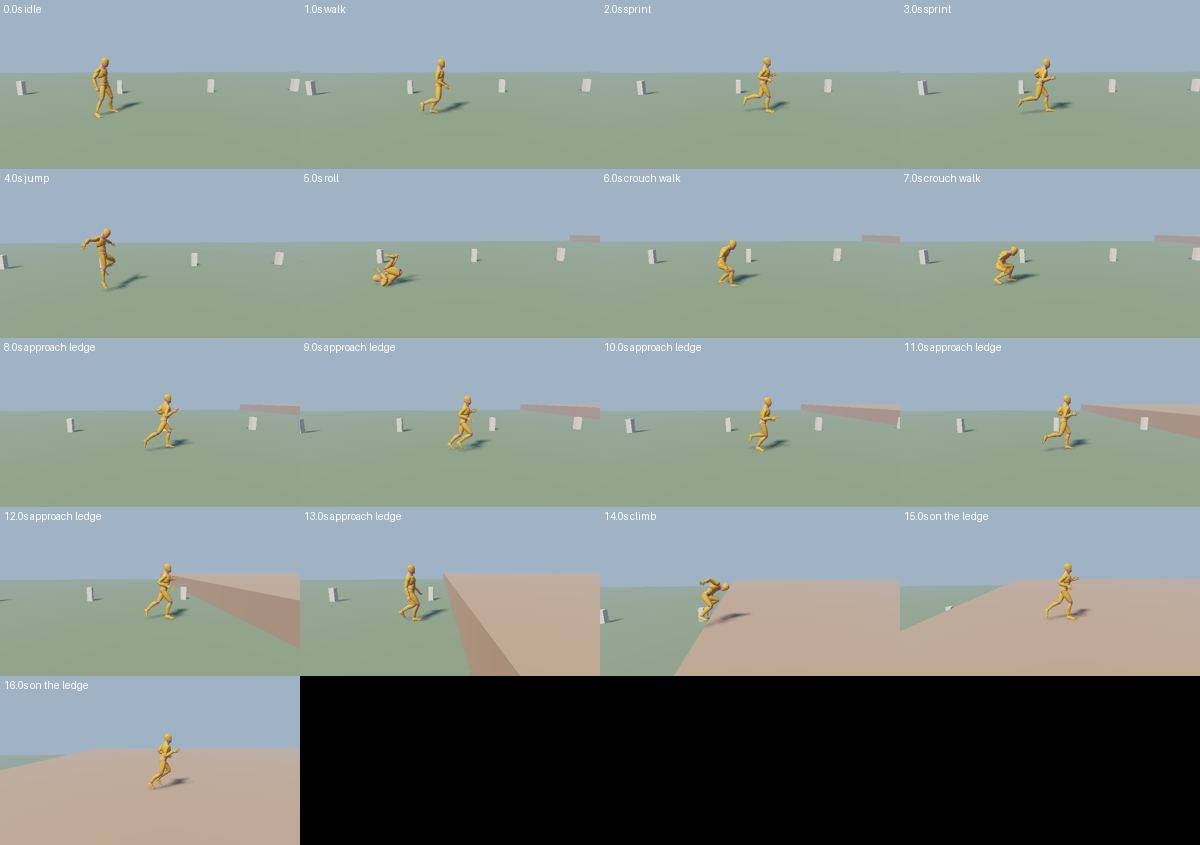
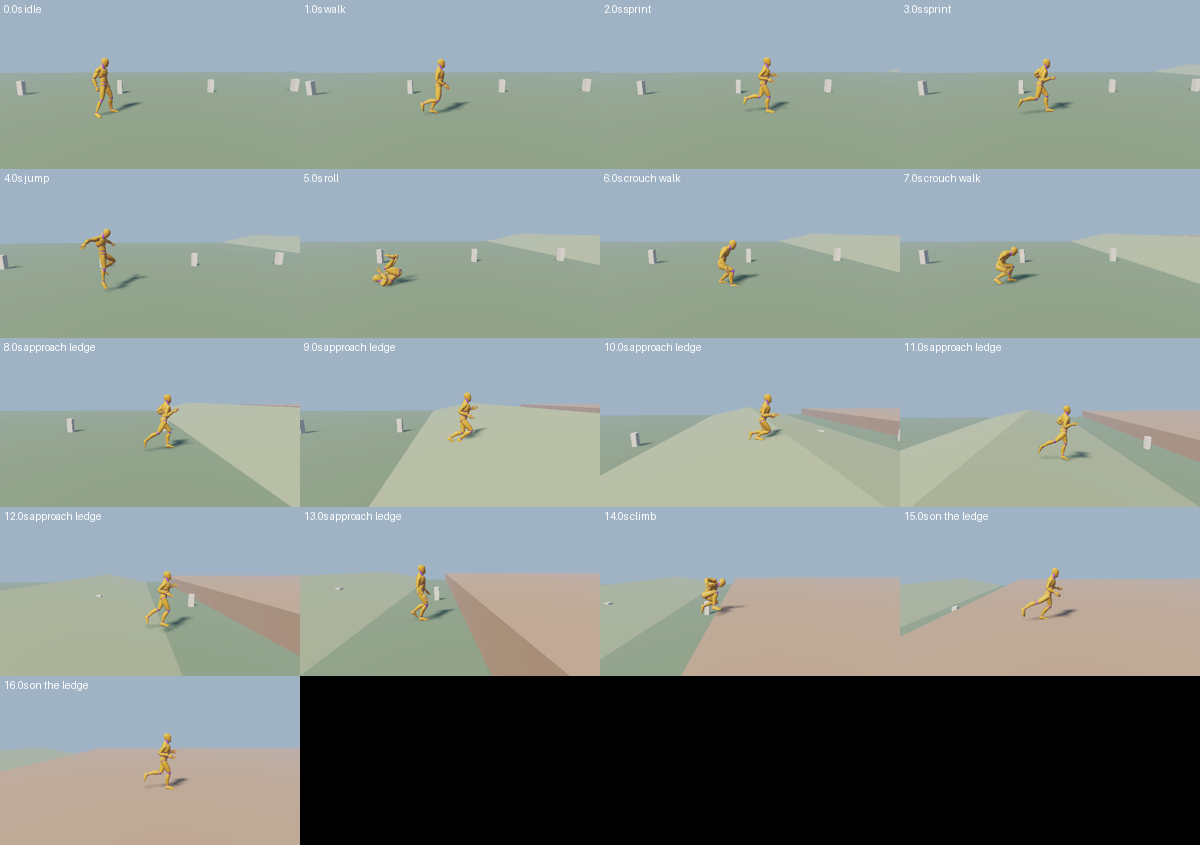
tools: the animation viewer's course gains a hill (two 12 degree slopes, an in-memory wedge mesh with matching collision triangles) so the ground IK is visible; refreshed contact sheet
Claude-Session: https://claude.ai/code/session_01Ss7dAaepZA6pgXb3dyjoBW

diff --git a/tools/animation/viewer/anim_viewer.cpp b/tools/animation/viewer/anim_viewer.cpp
@@ -1,4 +1,4 @@
-// saige_anim_viewer: the humanoid animation module on the real renderer. A scripted run of the UAL character on a small course (a floor and a 1 m ledge): it idles, walks, sprints, rolls (root-motion
+// saige_anim_viewer: the humanoid animation module on the real renderer. A scripted run of the UAL character on a small course (a floor, a hill and a 1 m ledge): it idles, walks, sprints, rolls (root-motion
 // action), crouch-walks (capsule crouch, UAL crouch set, stance blend), finds the ledge with find_ledge and climbs it (UAL 2's vertical root-motion action), all driven by Core's capsule character with
 // the animation following the physics (locomotion from the capsule's real speed, FootPlacement on the ground, actions asking the capsule for their travel and reading back how far it got).
 //
@@ -96,6 +96,38 @@ std::string base64(const std::vector<uint8_t>& d) {
     return s;
 }
 
+// A mesh given in engine axes (+X forward, +Y left, +Z up) as an in-memory glTF (flat colour). glTF is +Y up with its front along +Z: engine (x, y, z) is glTF (y, z, x).
+std::string mesh_gltf(const std::vector<float>& pos, const std::vector<float>& nor, const std::vector<uint16_t>& idx, float r, float g, float b) {
+    const size_t n = pos.size() / 3;
+    std::vector<float> gp(pos.size()), gn(nor.size());
+    float lo[3] = {1e30f, 1e30f, 1e30f}, hi[3] = {-1e30f, -1e30f, -1e30f};
+    for (size_t i = 0; i < n; ++i) {
+        const float p[3] = {pos[i * 3 + 1], pos[i * 3 + 2], pos[i * 3]};
+        const float q[3] = {nor[i * 3 + 1], nor[i * 3 + 2], nor[i * 3]};
+        for (size_t c = 0; c < 3; ++c) {
+            gp[i * 3 + c] = p[c];
+            gn[i * 3 + c] = q[c];
+            lo[c] = std::min(lo[c], p[c]);
+            hi[c] = std::max(hi[c], p[c]);
+        }
+    }
+    const size_t vb = n * 12, ib = idx.size() * 2;
+    std::vector<uint8_t> bytes(vb * 2 + ib + (ib % 4 != 0 ? 4 - ib % 4 : 0));
+    std::memcpy(bytes.data(), gp.data(), vb);
+    std::memcpy(bytes.data() + vb, gn.data(), vb);
+    std::memcpy(bytes.data() + vb * 2, idx.data(), ib);
+    std::ostringstream j;
+    j << R"({"asset":{"version":"2.0"},"scene":0,"scenes":[{"nodes":[0]}],"nodes":[{"mesh":0}],)"
+      << R"("meshes":[{"primitives":[{"attributes":{"POSITION":0,"NORMAL":1},"indices":2,"material":0}]}],)"
+      << R"("materials":[{"pbrMetallicRoughness":{"baseColorFactor":[)" << r << "," << g << "," << b << R"(,1],"metallicFactor":0.0,"roughnessFactor":0.85}}],)"
+      << R"("accessors":[{"bufferView":0,"componentType":5126,"count":)" << n << R"(,"type":"VEC3","min":[)" << lo[0] << "," << lo[1] << "," << lo[2] << R"(],"max":[)" << hi[0] << "," << hi[1] << "," << hi[2] << R"(]},)"
+      << R"({"bufferView":1,"componentType":5126,"count":)" << n << R"(,"type":"VEC3"},{"bufferView":2,"componentType":5123,"count":)" << idx.size() << R"(,"type":"SCALAR"}],)"
+      << R"("bufferViews":[{"buffer":0,"byteOffset":0,"byteLength":)" << vb << R"(},{"buffer":0,"byteOffset":)" << vb << R"(,"byteLength":)" << vb << R"(},{"buffer":0,"byteOffset":)" << vb * 2 << R"(,"byteLength":)" << ib << R"(}],)"
+      << R"("buffers":[{"byteLength":)" << bytes.size() << R"(,"uri":"data:application/octet-stream;base64,)" << base64(bytes) << R"("}]})";
+    return j.str();
+}
+
+// A unit cube centered at the origin.
 std::string box_gltf(float r, float g, float b) {
     struct Face {
         float n[3], u[3], v[3];
@@ -115,27 +147,54 @@ std::string box_gltf(float r, float g, float b) {
         }
         for (const int i : {0, 1, 2, 0, 2, 3}) idx.push_back(static_cast<uint16_t>(base + i));
     }
-    std::vector<uint8_t> bytes(pos.size() * 4 + nor.size() * 4 + idx.size() * 2);
-    std::memcpy(bytes.data(), pos.data(), pos.size() * 4);
-    std::memcpy(bytes.data() + pos.size() * 4, nor.data(), nor.size() * 4);
-    std::memcpy(bytes.data() + pos.size() * 4 + nor.size() * 4, idx.data(), idx.size() * 2);
-    std::ostringstream j;
-    j << R"({"asset":{"version":"2.0"},"scene":0,"scenes":[{"nodes":[0]}],"nodes":[{"mesh":0}],)"
-      << R"("meshes":[{"primitives":[{"attributes":{"POSITION":0,"NORMAL":1},"indices":2,"material":0}]}],)"
-      << R"("materials":[{"pbrMetallicRoughness":{"baseColorFactor":[)" << r << "," << g << "," << b << R"(,1],"metallicFactor":0.0,"roughnessFactor":0.85}}],)"
-      << R"("accessors":[{"bufferView":0,"componentType":5126,"count":24,"type":"VEC3","min":[-0.5,-0.5,-0.5],"max":[0.5,0.5,0.5]},)"
-      << R"({"bufferView":1,"componentType":5126,"count":24,"type":"VEC3"},{"bufferView":2,"componentType":5123,"count":36,"type":"SCALAR"}],)"
-      << R"("bufferViews":[{"buffer":0,"byteOffset":0,"byteLength":288},{"buffer":0,"byteOffset":288,"byteLength":288},{"buffer":0,"byteOffset":576,"byteLength":72}],)"
-      << R"("buffers":[{"byteLength":648,"uri":"data:application/octet-stream;base64,)" << base64(bytes) << R"("}]})";
-    return j.str();
+    return mesh_gltf(pos, nor, idx, r, g, b);
 }
 
-render::GpuModel stage_box(render::SceneRenderer& renderer, const char* name, float r, float g, float b) {
-    const std::string text = box_gltf(r, g, b);
+// A wedge: x in [0, 1], y in [-0.5, 0.5], the top rising from z = 0 at x = 0 to z = 1 at x = 1 (scaled to a ramp by the draw's transform).
+std::string wedge_gltf(float r, float g, float b) {
+    std::vector<float> pos, nor;
+    std::vector<uint16_t> idx;
+    const auto quad = [&](const float p[4][3], const float n[3]) {
+        const uint16_t base = static_cast<uint16_t>(pos.size() / 3);
+        for (int k = 0; k < 4; ++k) {
+            for (int c = 0; c < 3; ++c) {
+                pos.push_back(p[k][c]);
+                nor.push_back(n[c]);
+            }
+        }
+        for (const int i : {0, 1, 2, 0, 2, 3}) idx.push_back(static_cast<uint16_t>(base + i));
+    };
+    const float inv = 0.70710678f;
+    const float slope[4][3] = {{0, -0.5f, 0}, {1, -0.5f, 1}, {1, 0.5f, 1}, {0, 0.5f, 0}};  // counter-clockwise seen from above
+    const float slope_n[3] = {-inv, 0, inv};
+    quad(slope, slope_n);
+    const float back[4][3] = {{1, -0.5f, 0}, {1, 0.5f, 0}, {1, 0.5f, 1}, {1, -0.5f, 1}};
+    const float back_n[3] = {1, 0, 0};
+    quad(back, back_n);
+    for (const float side : {-1.0f, 1.0f}) {  // the two triangular ends, as degenerate quads (the last two vertices coincide)
+        const float tri[4][3] = {{0, 0.5f * side, 0}, {1, 0.5f * side, 0}, {1, 0.5f * side, 1}, {1, 0.5f * side, 1}};
+        const float n[3] = {0, side, 0};
+        const uint16_t base = static_cast<uint16_t>(pos.size() / 3);
+        for (int k = 0; k < 3; ++k) {
+            for (int c = 0; c < 3; ++c) {
+                pos.push_back(tri[k][c]);
+                nor.push_back(n[c]);
+            }
+        }
+        if (side > 0) for (const int i : {0, 1, 2}) idx.push_back(static_cast<uint16_t>(base + i));
+        else for (const int i : {0, 2, 1}) idx.push_back(static_cast<uint16_t>(base + i));
+    }
+    return mesh_gltf(pos, nor, idx, r, g, b);
+}
+
+render::GpuModel stage_text(render::SceneRenderer& renderer, const char* name, const std::string& text) {
     const gfx::GltfLoadResult loaded = gfx::load_gltf(std::span<const uint8_t>(reinterpret_cast<const uint8_t*>(text.data()), text.size()), {});
     if (!loaded.ok()) throw std::runtime_error(std::string("box ") + name + ": " + loaded.error);
     return gfx::stage_model(renderer, *loaded.asset, name);
 }
+
+render::GpuModel stage_box(render::SceneRenderer& renderer, const char* name, float r, float g, float b) { return stage_text(renderer, name, box_gltf(r, g, b)); }
+render::GpuModel stage_wedge(render::SceneRenderer& renderer, const char* name, float r, float g, float b) { return stage_text(renderer, name, wedge_gltf(r, g, b)); }
 
 struct Rgba {
     uint32_t width = 0, height = 0;
@@ -374,15 +433,22 @@ int main(int argc, char** argv) {
             const render::GpuModel floor_model = stage_box(renderer, "floor", 0.20f, 0.27f, 0.18f);
             const render::GpuModel ledge_model = stage_box(renderer, "ledge", 0.42f, 0.30f, 0.22f);
             const render::GpuModel marker_model = stage_box(renderer, "marker", 0.85f, 0.80f, 0.70f);
+            const render::GpuModel hill_model = stage_wedge(renderer, "hill", 0.34f, 0.40f, 0.26f);
 
             // The course: a floor, a ledge 1 m high whose face is at x = 46, and a row of posts every 5 m to read the speed from.
             const float ledge_x = 46.0f;
             std::vector<Aabb> boxes{{{-60, -20, -1}, {120, 20, 0}}, {{ledge_x, -20, 0}, {120, 20, 1.0f}}};
-            const StaticCollision world(boxes, {});
+            // A hill of two 12 degree slopes between x = 31 and 43 (walked over before the ledge): the ground IK has something to do.
+            const float hill_x0 = 31.0f, hill_len = 6.0f, hill_rise = hill_len * std::tan(12.0f * 3.14159265f / 180.0f);
+            std::vector<Triangle> tris{{{hill_x0, -20, 0}, {hill_x0, 20, 0}, {hill_x0 + hill_len, 20, hill_rise}},
+                                       {{hill_x0, -20, 0}, {hill_x0 + hill_len, 20, hill_rise}, {hill_x0 + hill_len, -20, hill_rise}},
+                                       {{hill_x0 + hill_len, -20, hill_rise}, {hill_x0 + hill_len, 20, hill_rise}, {hill_x0 + 2 * hill_len, 20, 0}},
+                                       {{hill_x0 + hill_len, -20, hill_rise}, {hill_x0 + 2 * hill_len, 20, 0}, {hill_x0 + 2 * hill_len, -20, 0}}};
+            const StaticCollision world(boxes, tris);
             CapsuleCharacterConfig cfg;
             cfg.crouch_height = crouch_capsule_height(1.0f, 1.5f, cfg.height, 2.0f * cfg.radius);  // from the crouch pose's head (about 0.94 m) and the standing head (1.52 m)
             cfg.crouch_speed = 1.4f;
-            CapsuleCharacter capsule({0.0f, 0.0f, 0.0f}, boxes, cfg);
+            CapsuleCharacter capsule({0.0f, 0.0f, 0.0f}, boxes, tris, cfg);
             LocomotionController stand_ctl(*ch.stand, {});
             std::optional<LocomotionController> crouch_ctl;
             if (ch.crouch->usable()) crouch_ctl.emplace(*ch.crouch, LocomotionConfig{});
@@ -407,6 +473,16 @@ int main(int argc, char** argv) {
                 };
                 box(floor_model, {30, 0, -0.5f}, {180, 40, 1.0f});
                 box(ledge_model, {ledge_x + 45.0f, 0, 0.5f}, {90, 40, 1.0f});
+                {
+                    render::Transform up;  // the rising half: x from hill_x0 to hill_x0 + hill_len (the wedge's origin is its base start), 40 m wide
+                    up.position = {hill_x0, 0, 0};
+                    up.scale = {hill_len, 40.0f, hill_rise};
+                    draws.push_back({&hill_model, render::to_matrix(up)});
+                    render::Transform down = up;  // the falling half: the same wedge turned half a turn about the vertical
+                    down.position = {hill_x0 + 2.0f * hill_len, 0, 0};
+                    down.rotation = render::from_axis_angle({0, 0, 1}, 3.14159265f);
+                    draws.push_back({&hill_model, render::to_matrix(down)});
+                }
                 for (int p = -10; p <= 24; ++p) box(marker_model, {static_cast<float>(p) * 5.0f, 3.2f, 0.35f}, {0.25f, 0.25f, 0.7f});
             };
 

diff --git a/docs/animation-character.md b/docs/animation-character.md
@@ -33,9 +33,9 @@ Threading and lifetime: a `LocomotionSet` holds a pointer to its `gfx::Skin` (wh
 
 ## The viewer: the whole chain on the real renderer
 
-`saige_anim_viewer` (`tools/animation/viewer`) runs a scripted course with the UAL character through the real renderer (HDR, metallic-roughness, skinned draws through a `SkinPalette`, sun shadows) and writes one PPM per captured frame plus `report.json` (device, whether it was a software rasterizer, the script stage of each frame). The script: idle, walk, sprint, a jump from the sprint (take-off, air, landing states), a roll (UAL's `Roll_RM`), a crouch walk (the capsule's crouch, the UAL crouch set and `StanceBlend`), the ledge found with `find_ledge`, the character stood where the climb clip's first foot meets the face, and a 1 m climb (UAL 2's `ClimbUp_1m_RM`, retargeted onto the UAL rig), then a jog on the ledge. Everything is driven by Core's capsule character: the animation follows the physics, actions ask the capsule for their travel and read back how far it got, and `FootPlacement` plants the feet. `python3 tools/animation/viewer/sheet.py OUT_DIR` makes a contact sheet; `docs/images/anim-viewer-sheet.png` is one (software Vulkan, llvmpipe, 640 x 360, every 6th captured frame of a 17 s run).
+`saige_anim_viewer` (`tools/animation/viewer`) runs a scripted course with the UAL character through the real renderer (HDR, metallic-roughness, skinned draws through a `SkinPalette`, sun shadows) and writes one PPM per captured frame plus `report.json` (device, whether it was a software rasterizer, the script stage of each frame). The script: idle, walk, sprint, a jump from the sprint (take-off, air, landing states), a roll (UAL's `Roll_RM`), a crouch walk (the capsule's crouch, the UAL crouch set and `StanceBlend`), a hill of two 12 degree slopes (the ground IK's work), the ledge found with `find_ledge`, the character stood where the climb clip's first foot meets the face, and a 1 m climb (UAL 2's `ClimbUp_1m_RM`, retargeted onto the UAL rig), then a jog on the ledge. Everything is driven by Core's capsule character: the animation follows the physics, actions ask the capsule for their travel and read back how far it got, and `FootPlacement` plants the feet. `python3 tools/animation/viewer/sheet.py OUT_DIR` makes a contact sheet; `docs/images/anim-viewer-sheet.png` is one (software Vulkan, llvmpipe, 640 x 360, every 6th captured frame of a 17 s run).
 
-![the UAL character on the course: idle, walk, sprint, jump, roll, crouch walk, approach, climb, jog on the ledge](images/anim-viewer-sheet.png)
+![the UAL character on the course: idle, walk, sprint, jump, roll, crouch walk, over the hill, climb, jog on the ledge](images/anim-viewer-sheet.png)
 
 `SAIGE_ANIM_ASSETS=DIR saige_anim_viewer --out OUT --self-check` renders the run (about 100 frames in a few seconds on the CPU rasterizer) and checks that no frame is empty, that the picture changes, and that the character ends on the 1.00 m ledge; `ctest -R animation_viewer` runs a shorter version and is skipped without the assets or a Vulkan device. This is a visual and integration check on a software rasterizer; it makes no performance claim and is not GPU evidence.
 
